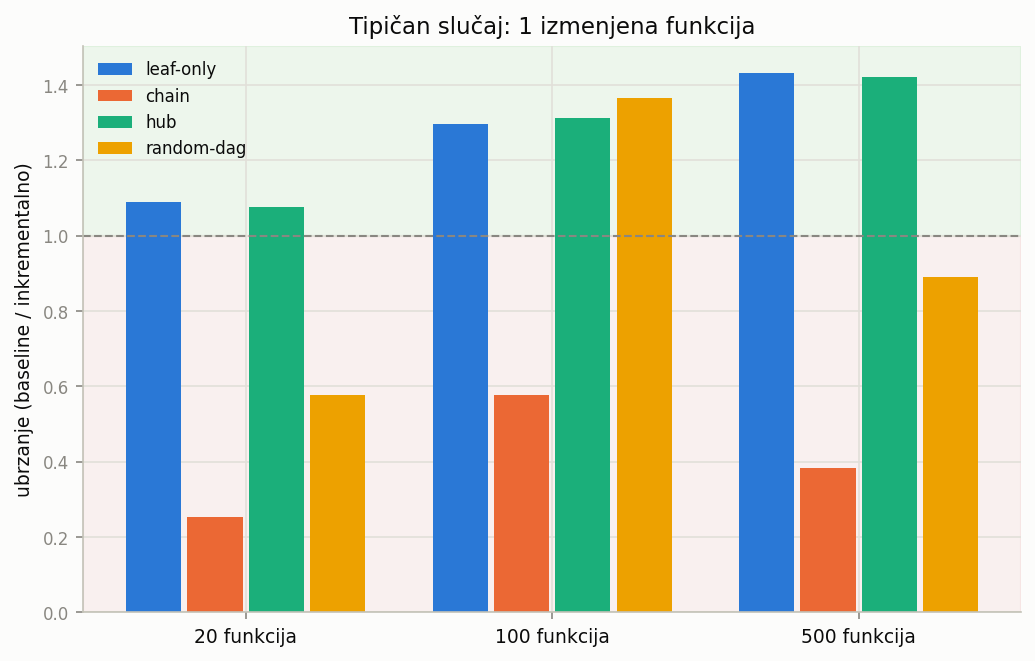
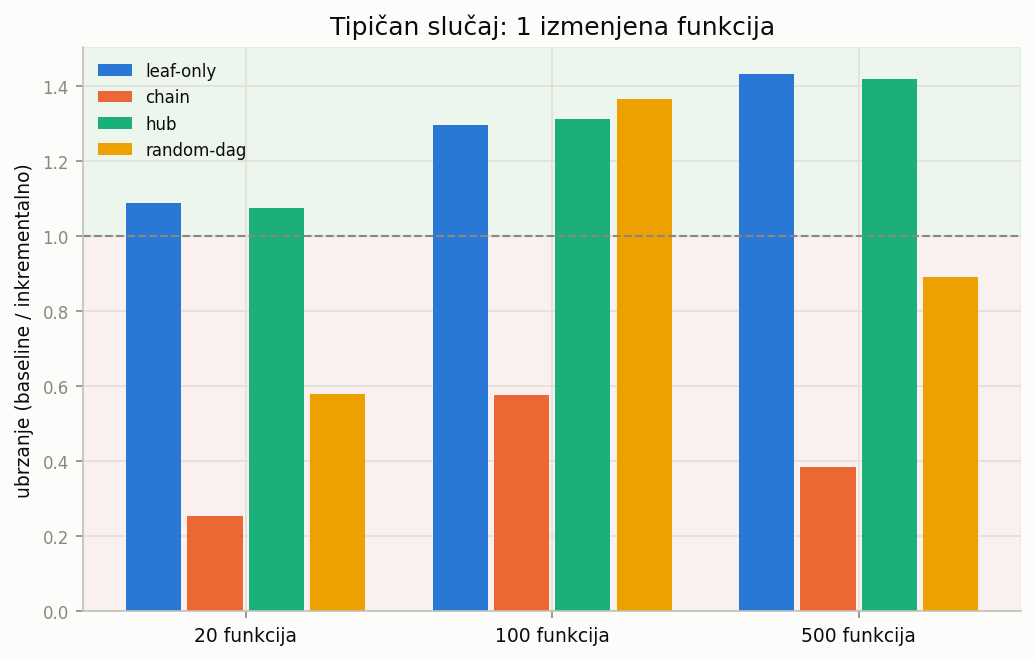
Added graficons and results

diff --git a/benchmarks/analyze.py b/benchmarks/analyze.py
@@ -39,7 +39,9 @@ def index_rows(rows):
     return {(r["topology"], r["size"], r["mode"], r["num_changes"]): r for r in rows}
 
 
-def style_axes(ax):
+def new_fig(figsize=(6.5, 4.5)):
+    fig, ax = plt.subplots(figsize=figsize)
+    fig.patch.set_facecolor(SURFACE)
     ax.set_facecolor(SURFACE)
     ax.spines["top"].set_visible(False)
     ax.spines["right"].set_visible(False)
@@ -48,142 +50,114 @@ def style_axes(ax):
     ax.tick_params(colors=MUTED, labelsize=8)
     ax.grid(True, color=GRID, linewidth=0.8)
     ax.set_axisbelow(True)
+    return fig, ax
 
 
-def shared_legend(fig, axes):
-    handles, labels = axes[0].get_legend_handles_labels()
-    fig.legend(handles, labels, loc="upper center", ncol=len(labels), frameon=False,
-               bbox_to_anchor=(0.5, 1.06), fontsize=9, labelcolor=INK)
-
-
-def plot_speedup(rows, sizes, out_path):
-    idx = index_rows(rows)
-    fig, axes = plt.subplots(1, len(sizes), figsize=(4 * len(sizes), 4), sharey=True)
-    fig.patch.set_facecolor(SURFACE)
-    axes = list(axes) if len(sizes) > 1 else [axes]
-
-    for ax, size in zip(axes, sizes):
-        style_axes(ax)
-        for topo in TOPOLOGY_ORDER:
-            baseline = idx[(topo, size, "baseline", 0)]["time_s"]
-            changes = sorted({r["num_changes"] for r in rows
-                               if r["topology"] == topo and r["mode"] == "incremental_warm"
-                               and r["size"] == size})
-            xs, ys = [], []
-            for nc in changes:
-                row = idx.get((topo, size, "incremental_warm", nc))
-                if row is None:
-                    continue
-                xs.append(nc)
-                ys.append(baseline / row["time_s"])
-            ax.plot(xs, ys, marker="o", markersize=6, linewidth=2,
-                    color=TOPOLOGY_COLORS[topo], label=topo)
-        ax.axhline(1.0, color=MUTED, linewidth=1, linestyle="--")
-        ax.set_title(f"{size} funkcija", color=INK, fontsize=11)
-        ax.set_xlabel("broj izmenjenih funkcija", color=MUTED, fontsize=9)
-
-    ymin, ymax = axes[0].get_ylim()
-    for ax in axes:
-        ax.axhspan(1.0, ymax, color=STATUS_GOOD, alpha=0.06, zorder=0)
-        ax.axhspan(ymin, 1.0, color=STATUS_CRITICAL, alpha=0.06, zorder=0)
-    axes[0].set_ylim(ymin, ymax)
-
-    axes[0].text(0.02, 0.97, "brže od baseline-a", transform=axes[0].transAxes,
-                 color=STATUS_GOOD, fontsize=8, va="top", ha="left")
-    axes[0].text(0.02, 0.03, "sporije od baseline-a", transform=axes[0].transAxes,
-                 color=STATUS_CRITICAL, fontsize=8, va="bottom", ha="left")
-    axes[0].set_ylabel("ubrzanje (baseline / inkrementalno)", color=INK, fontsize=9)
-    shared_legend(fig, axes)
+def save(fig, out_path):
     fig.tight_layout()
     fig.savefig(out_path, dpi=150, facecolor=SURFACE, bbox_inches="tight")
     plt.close(fig)
 
 
-def plot_dirty_fraction(rows, sizes, out_path):
-    idx = index_rows(rows)
-    fig, axes = plt.subplots(1, len(sizes), figsize=(4 * len(sizes), 4), sharey=True)
-    fig.patch.set_facecolor(SURFACE)
-    axes = list(axes) if len(sizes) > 1 else [axes]
-
-    for ax, size in zip(axes, sizes):
-        style_axes(ax)
-        for topo in TOPOLOGY_ORDER:
-            changes = sorted({r["num_changes"] for r in rows
-                               if r["topology"] == topo and r["mode"] == "incremental_warm"
-                               and r["size"] == size})
-            xs, ys = [], []
-            for nc in changes:
-                row = idx.get((topo, size, "incremental_warm", nc))
-                if row is None:
-                    continue
-                xs.append(nc)
-                ys.append(100.0 * row["dirty"] / size)
-            ax.plot(xs, ys, marker="o", markersize=6, linewidth=2,
-                    color=TOPOLOGY_COLORS[topo], label=topo)
-        ax.set_title(f"{size} funkcija", color=INK, fontsize=11)
-        ax.set_xlabel("broj izmenjenih funkcija", color=MUTED, fontsize=9)
-        ax.set_ylim(-5, 105)
-
-    axes[0].set_ylabel("% funkcija koje su dirty", color=INK, fontsize=9)
-    shared_legend(fig, axes)
-    fig.tight_layout()
-    fig.savefig(out_path, dpi=150, facecolor=SURFACE, bbox_inches="tight")
-    plt.close(fig)
+def changes_for(rows, topo, size):
+    return sorted({r["num_changes"] for r in rows
+                   if r["topology"] == topo and r["mode"] == "incremental_warm"
+                   and r["size"] == size})
 
 
-def plot_absolute_time(rows, sizes, out_path):
-    idx = index_rows(rows)
-    fig, axes = plt.subplots(len(TOPOLOGY_ORDER), len(sizes),
-                              figsize=(3.6 * len(sizes), 2.6 * len(TOPOLOGY_ORDER)))
+def plot_speedup_for_size(rows, idx, size, out_path):
+    fig, ax = new_fig()
 
-    fig.patch.set_facecolor(SURFACE)
+    for topo in TOPOLOGY_ORDER:
+        baseline = idx[(topo, size, "baseline", 0)]["time_s"]
+        xs, ys = [], []
+        for nc in changes_for(rows, topo, size):
+            row = idx.get((topo, size, "incremental_warm", nc))
+            if row is None:
+                continue
+            xs.append(nc)
+            ys.append(baseline / row["time_s"])
+        ax.plot(xs, ys, marker="o", markersize=7, linewidth=2.5,
+                color=TOPOLOGY_COLORS[topo], label=topo)
 
-    for row, topo in enumerate(TOPOLOGY_ORDER):
-        for col, size in enumerate(sizes):
-            ax = axes[row][col]
-            style_axes(ax)
-            baseline = idx[(topo, size, "baseline", 0)]["time_s"]
-            changes = sorted({r["num_changes"] for r in rows
-                               if r["topology"] == topo and r["mode"] == "incremental_warm"
-                               and r["size"] == size})
-            xs, ys = [], []
-            for nc in changes:
-                r = idx.get((topo, size, "incremental_warm", nc))
-                if r is None:
-                    continue
-                xs.append(nc)
-                ys.append(r["time_s"])
-            ax.plot(xs, ys, marker="o", markersize=5, linewidth=2,
-                    color=TOPOLOGY_COLORS[topo])
-            ax.axhline(baseline, color=MUTED, linewidth=1.3, linestyle="--")
+    ax.axhline(1.0, color=MUTED, linewidth=1, linestyle="--")
+    ymin, ymax = ax.get_ylim()
+    ax.axhspan(1.0, ymax, color=STATUS_GOOD, alpha=0.06, zorder=0)
+    ax.axhspan(ymin, 1.0, color=STATUS_CRITICAL, alpha=0.06, zorder=0)
+    ax.set_ylim(ymin, ymax)
+    ax.text(0.02, 0.97, "brže od baseline-a", transform=ax.transAxes,
+            color=STATUS_GOOD, fontsize=8, va="top", ha="left")
+    ax.text(0.02, 0.03, "sporije od baseline-a", transform=ax.transAxes,
+            color=STATUS_CRITICAL, fontsize=8, va="bottom", ha="left")
 
-            ymin, ymax = min(ys + [baseline]), max(ys + [baseline])
-            pad = max((ymax - ymin) * 0.25, ymax * 0.05)
-            ax.set_ylim(ymin - pad, ymax + pad)
-
-            if row == 0:
-                ax.set_title(f"{size} funkcija", color=INK, fontsize=11)
-            if col == 0:
-                ax.set_ylabel(topo, color=TOPOLOGY_COLORS[topo], fontsize=10,
-                              fontweight="bold")
-            if row == len(TOPOLOGY_ORDER) - 1:
-                ax.set_xlabel("broj izmenjenih funkcija", color=MUTED, fontsize=8)
-            ax.tick_params(labelsize=7)
-
-    fig.text(0.5, -0.01,
-              "isprekidana siva linija = baseline (puna kompilacija) za taj panel — "
-              "svaki red ima SVOJU y-osu",
-              ha="center", color=MUTED, fontsize=8)
-    fig.tight_layout()
-    fig.savefig(out_path, dpi=150, facecolor=SURFACE, bbox_inches="tight")
-    plt.close(fig)
+    ax.set_xlabel("broj izmenjenih funkcija", color=MUTED, fontsize=9)
+    ax.set_ylabel("ubrzanje (baseline / inkrementalno)", color=INK, fontsize=9)
+    ax.set_title(f"Ubrzanje pri {size} funkcija u fajlu", color=INK, fontsize=12)
+    ax.legend(frameon=False, fontsize=9, labelcolor=INK, loc="center left",
+              bbox_to_anchor=(1.02, 0.5))
+    save(fig, out_path)
 
 
-def plot_practical_case(rows, sizes, out_path, num_changes=1):
-    idx = index_rows(rows)
-    fig, ax = plt.subplots(figsize=(7, 4.5))
-    fig.patch.set_facecolor(SURFACE)
-    style_axes(ax)
+def plot_dirty_fraction_for_size(rows, idx, size, out_path):
+    fig, ax = new_fig()
+
+    for topo in TOPOLOGY_ORDER:
+        xs, ys = [], []
+        for nc in changes_for(rows, topo, size):
+            row = idx.get((topo, size, "incremental_warm", nc))
+            if row is None:
+                continue
+            xs.append(nc)
+            ys.append(100.0 * row["dirty"] / size)
+        ax.plot(xs, ys, marker="o", markersize=7, linewidth=2.5,
+                color=TOPOLOGY_COLORS[topo], label=topo)
+
+    ax.set_ylim(-5, 105)
+    ax.set_xlabel("broj izmenjenih funkcija", color=MUTED, fontsize=9)
+    ax.set_ylabel("% funkcija koje su dirty", color=INK, fontsize=9)
+    ax.set_title(f"Koliko koda postaje dirty pri {size} funkcija", color=INK, fontsize=12)
+    ax.legend(frameon=False, fontsize=9, labelcolor=INK, loc="center left",
+              bbox_to_anchor=(1.02, 0.5))
+    save(fig, out_path)
+
+
+def plot_absolute_time_one(rows, idx, topo, size, out_path):
+    fig, ax = new_fig(figsize=(5.5, 4))
+
+    baseline = idx[(topo, size, "baseline", 0)]["time_s"]
+    xs, ys = [], []
+    for nc in changes_for(rows, topo, size):
+        row = idx.get((topo, size, "incremental_warm", nc))
+        if row is None:
+            continue
+        xs.append(nc)
+        ys.append(row["time_s"])
+
+    ax.plot(xs, ys, marker="o", markersize=7, linewidth=2.5,
+            color=TOPOLOGY_COLORS[topo], label="inkrementalno")
+    ax.axhline(baseline, color=MUTED, linewidth=1.5, linestyle="--", label="baseline")
+
+    ymin, ymax = min(ys + [baseline]), max(ys + [baseline])
+    pad = max((ymax - ymin) * 0.25, ymax * 0.05)
+    ax.set_ylim(ymin - pad, ymax + pad)
+
+    faster = baseline > max(ys)
+    verdict = "brže od baseline-a na svim tačkama" if faster else \
+        ("sporije od baseline-a na svim tačkama" if baseline < min(ys) else "meša se")
+    verdict_color = STATUS_GOOD if faster else \
+        (STATUS_CRITICAL if baseline < min(ys) else MUTED)
+
+    ax.set_xlabel("broj izmenjenih funkcija", color=MUTED, fontsize=9)
+    ax.set_ylabel("vreme (s)", color=INK, fontsize=9)
+    ax.set_title(f"{topo}, {size} funkcija", color=INK, fontsize=12)
+    ax.text(0.5, 1.14, verdict, transform=ax.transAxes, color=verdict_color,
+            fontsize=9, ha="center", fontweight="bold")
+    ax.legend(frameon=False, fontsize=8, labelcolor=INK, loc="best")
+    save(fig, out_path)
+
+
+def plot_practical_case(rows, idx, sizes, out_path, num_changes=1):
+    fig, ax = new_fig(figsize=(7, 4.5))
 
     n_topo = len(TOPOLOGY_ORDER)
     width = 0.8 / n_topo
@@ -207,23 +181,17 @@ def plot_practical_case(rows, sizes, out_path, num_changes=1):
     ax.set_xticks(x)
     ax.set_xticklabels([f"{s} funkcija" for s in sizes], color=INK, fontsize=9)
     ax.set_ylabel("ubrzanje (baseline / inkrementalno)", color=INK, fontsize=9)
-    ax.set_title(f"Tipičan slučaj: {num_changes} izmenjena funkcija", color=INK, fontsize=11)
+    ax.set_title(f"Tipičan slučaj: {num_changes} izmenjena funkcija", color=INK, fontsize=12)
     ax.legend(frameon=False, fontsize=8, labelcolor=INK, loc="upper left")
-    fig.tight_layout()
-    fig.savefig(out_path, dpi=150, facecolor=SURFACE, bbox_inches="tight")
-    plt.close(fig)
+    save(fig, out_path)
 
 
-def plot_baseline_scaling(rows, out_path):
-    idx = index_rows(rows)
-    sizes = sorted({r["size"] for r in rows})
-    fig, ax = plt.subplots(figsize=(6, 4.5))
-    fig.patch.set_facecolor(SURFACE)
-    style_axes(ax)
+def plot_baseline_scaling(rows, idx, sizes, out_path):
+    fig, ax = new_fig()
 
     for topo in TOPOLOGY_ORDER:
         ys = [idx[(topo, s, "baseline", 0)]["time_s"] for s in sizes]
-        ax.plot(sizes, ys, marker="o", markersize=6, linewidth=2,
+        ax.plot(sizes, ys, marker="o", markersize=7, linewidth=2.5,
                 color=TOPOLOGY_COLORS[topo], label=topo)
 
     ax.set_xscale("log")
@@ -232,10 +200,9 @@ def plot_baseline_scaling(rows, out_path):
     ax.set_xticklabels([str(s) for s in sizes])
     ax.set_xlabel("broj funkcija u fajlu", color=MUTED, fontsize=9)
     ax.set_ylabel("vreme pune kompilacije (s)", color=INK, fontsize=9)
-    ax.legend(frameon=False, fontsize=8, labelcolor=INK, loc="upper left")
-    fig.tight_layout()
-    fig.savefig(out_path, dpi=150, facecolor=SURFACE, bbox_inches="tight")
-    plt.close(fig)
+    ax.set_title("Koliko puna kompilacija skalira sa veličinom", color=INK, fontsize=12)
+    ax.legend(frameon=False, fontsize=9, labelcolor=INK, loc="upper left")
+    save(fig, out_path)
 
 
 def main():
@@ -246,13 +213,21 @@ def main():
 
     os.makedirs(args.outdir, exist_ok=True)
     rows = load_rows(args.results)
+    idx = index_rows(rows)
     sizes = sorted({r["size"] for r in rows})
 
-    plot_speedup(rows, sizes, os.path.join(args.outdir, "speedup.png"))
-    plot_dirty_fraction(rows, sizes, os.path.join(args.outdir, "dirty_fraction.png"))
-    plot_baseline_scaling(rows, os.path.join(args.outdir, "baseline_scaling.png"))
-    plot_absolute_time(rows, sizes, os.path.join(args.outdir, "absolute_time.png"))
-    plot_practical_case(rows, sizes, os.path.join(args.outdir, "practical_case.png"))
+    for size in sizes:
+        plot_speedup_for_size(rows, idx, size,
+                               os.path.join(args.outdir, f"speedup_{size}.png"))
+        plot_dirty_fraction_for_size(rows, idx, size,
+                                      os.path.join(args.outdir, f"dirty_fraction_{size}.png"))
+        for topo in TOPOLOGY_ORDER:
+            plot_absolute_time_one(
+                rows, idx, topo, size,
+                os.path.join(args.outdir, f"absolute_time_{topo}_{size}.png"))
+
+    plot_practical_case(rows, idx, sizes, os.path.join(args.outdir, "practical_case.png"))
+    plot_baseline_scaling(rows, idx, sizes, os.path.join(args.outdir, "baseline_scaling.png"))
 
     print(f"Wrote graphs to {args.outdir}/", file=sys.stderr)
 
